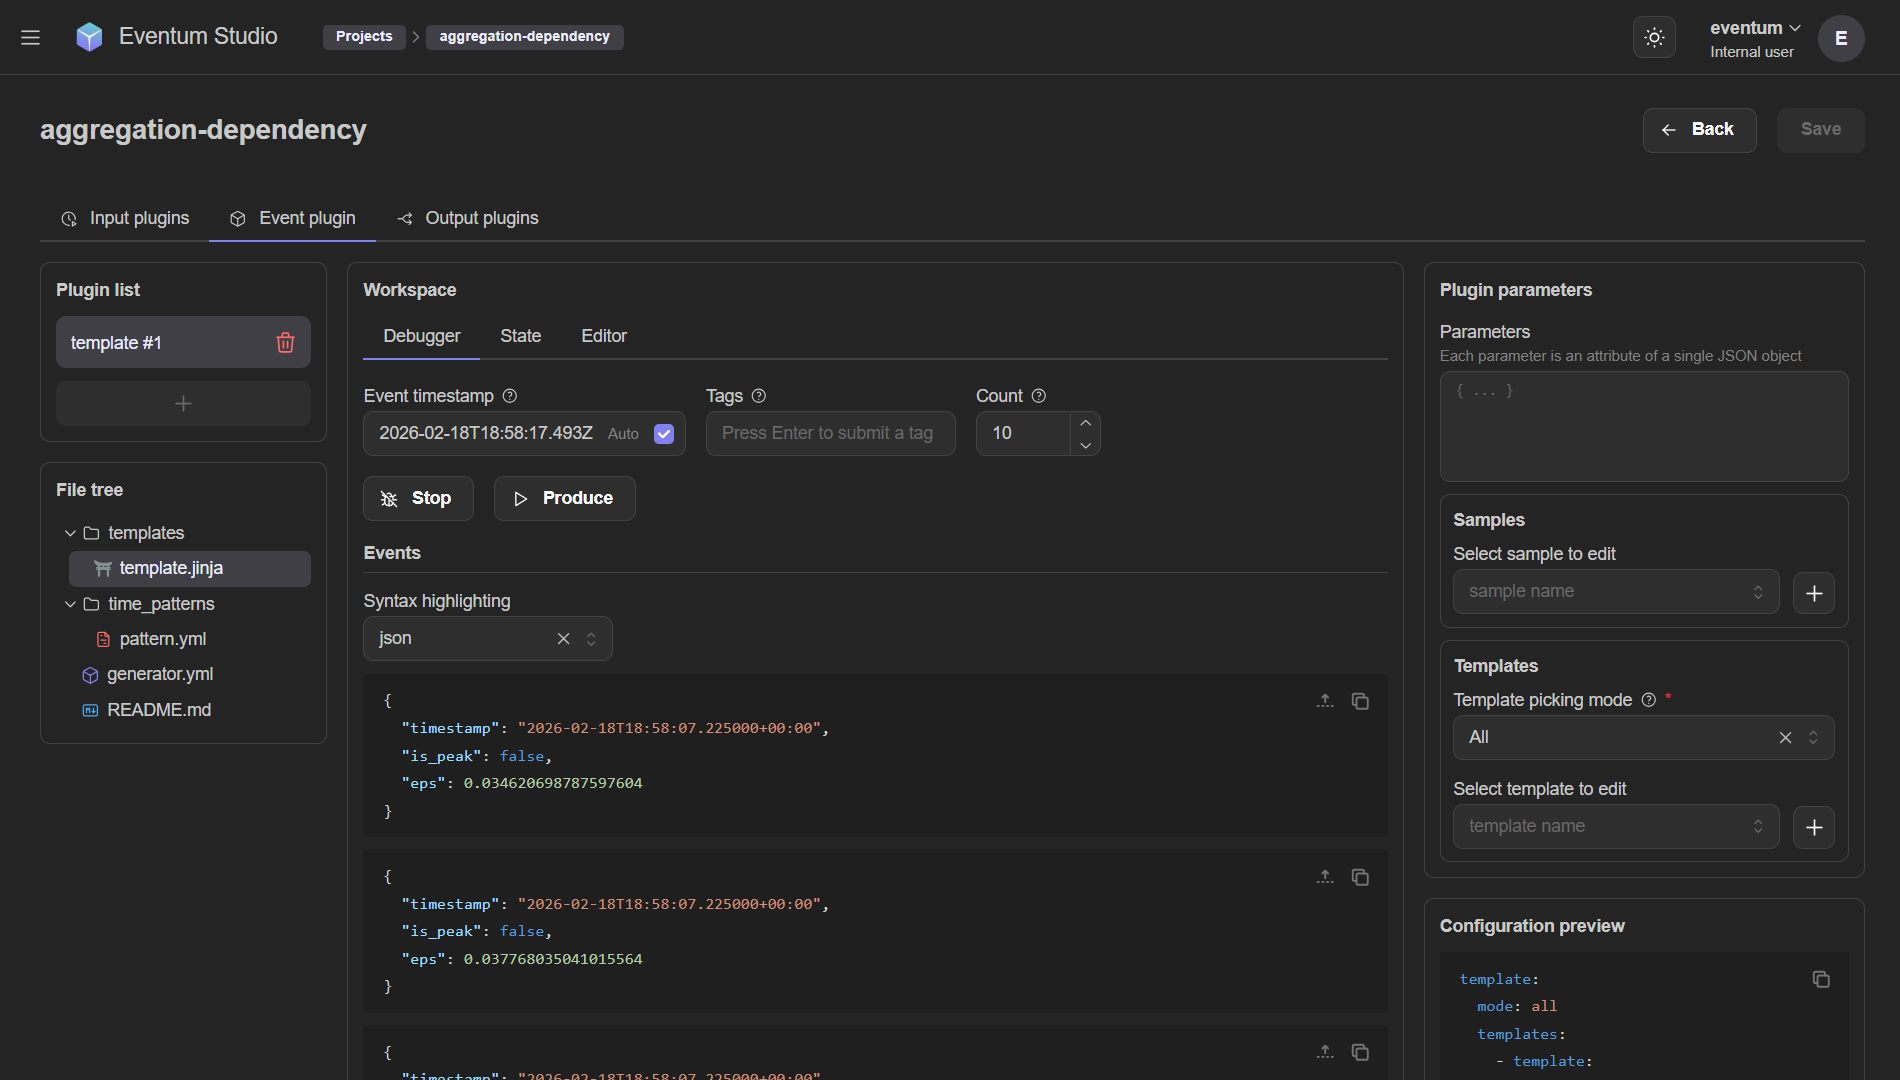
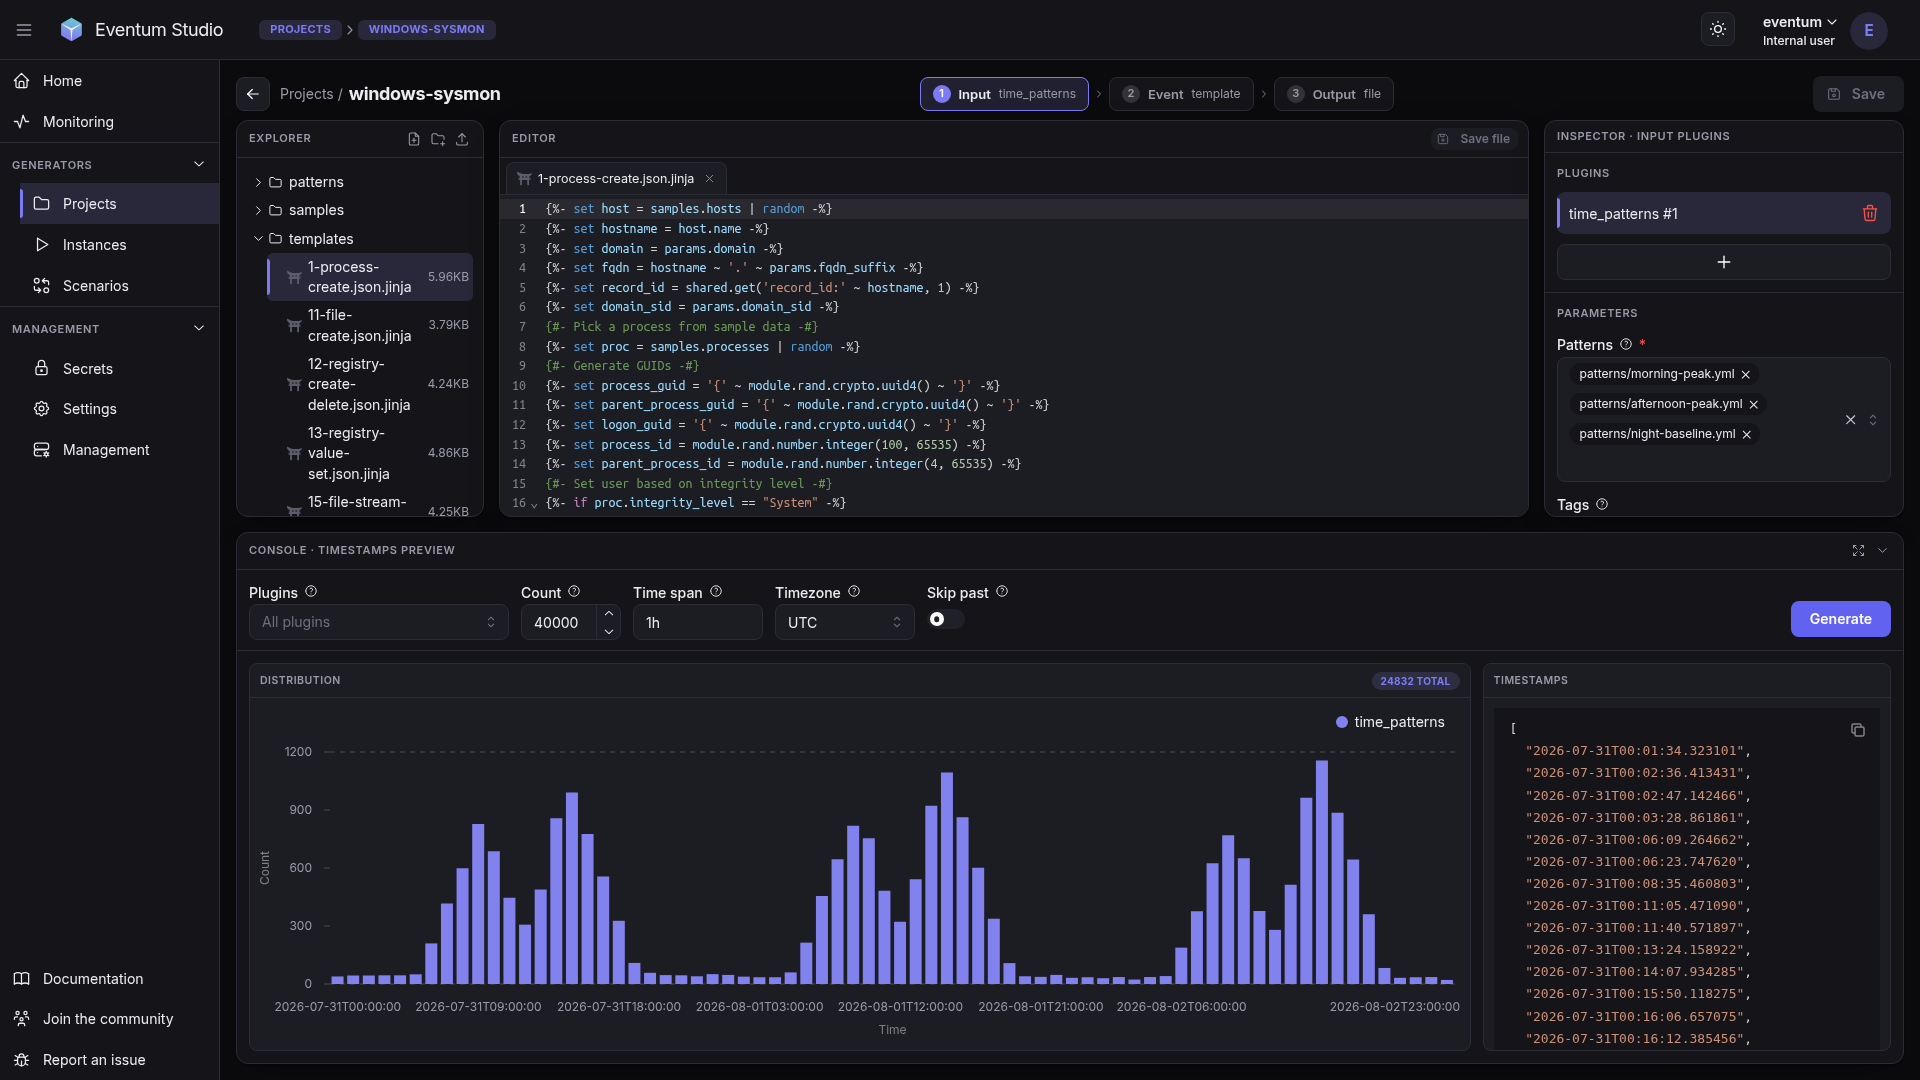
docs: reshoot the README hero after the Studio redesign
The hero showed the pre-redesign event debugger, which at the width the
README renders it is a wall of small monospace. Replace it with one
frame of the workspace that carries both halves of building a
generator: a Jinja template open in the editor, and underneath it the
timestamp preview showing the distribution that template will be
rendered against - here three days of a two-peak workday curve.

Captured from a build of this branch at 1920x1080. The histogram stays
legible at 680px, which the previous hero did not.

Companion to eventum-generator/docs#58, which reshoots the rest.

diff --git a/README.md b/README.md
@@ -42,7 +42,7 @@ Eventum produces synthetic events and delivers them anywhere — in real time or
 </p>
 
 <p align="center">
-  <img src="https://raw.githubusercontent.com/eventum-generator/eventum/master/.github/assets/studio_dark.png" alt="Eventum Studio — event debugger" width="680" />
+  <img src="https://raw.githubusercontent.com/eventum-generator/eventum/master/.github/assets/studio_dark.png" alt="Eventum Studio — a template in the editor with its timestamp distribution below" width="680" />
 </p>
 
 ## Highlights
